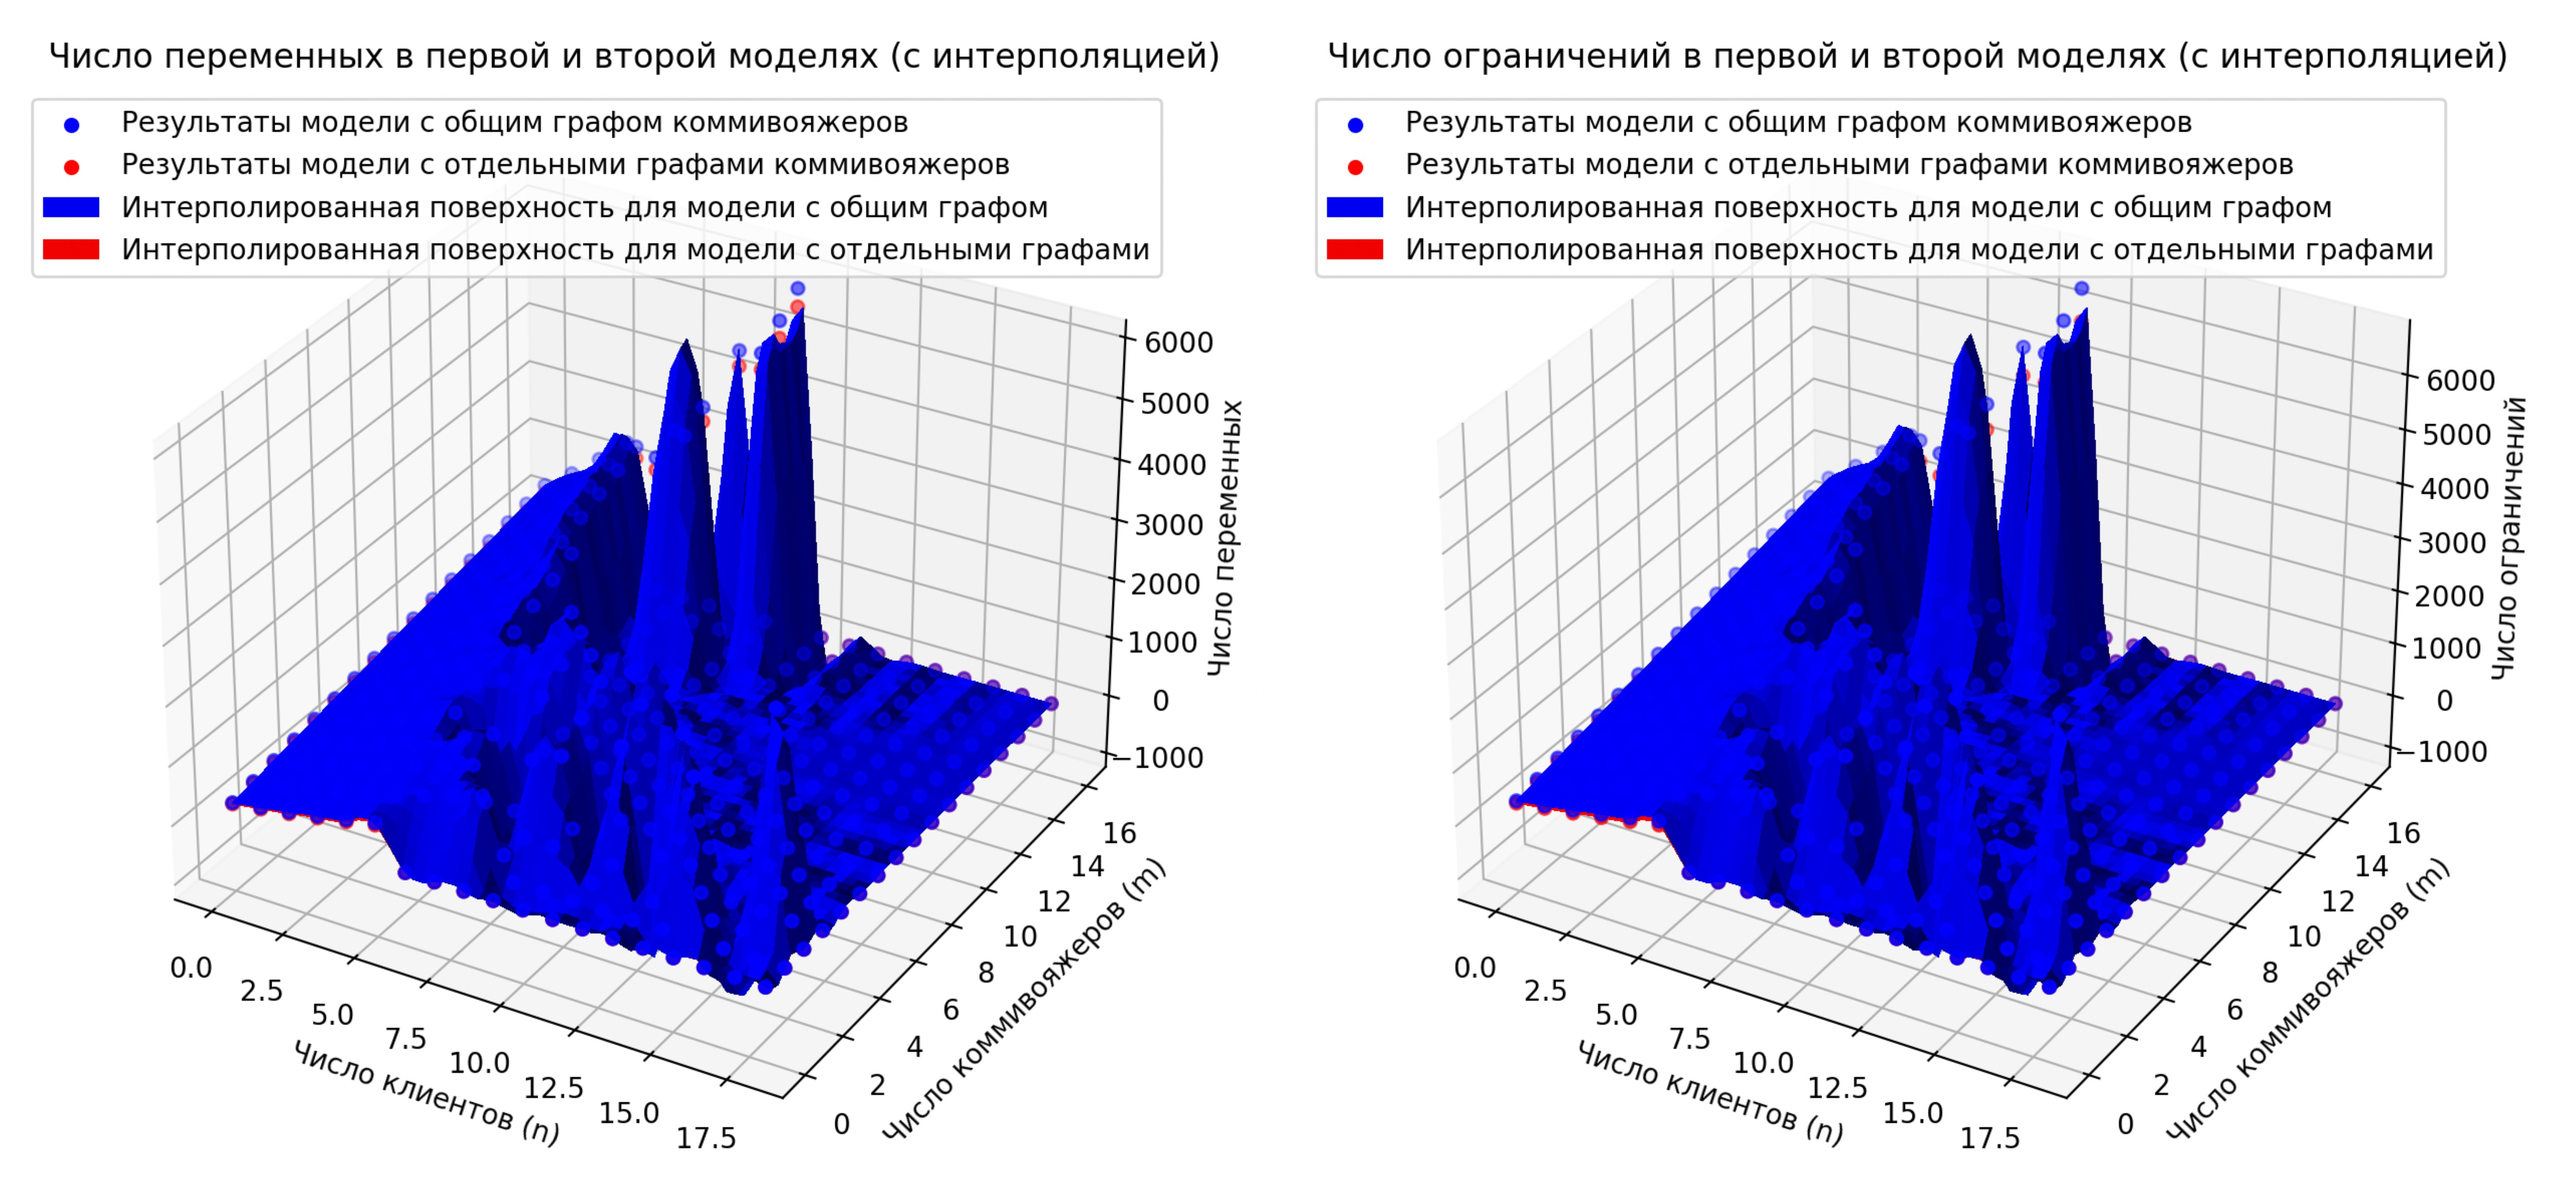
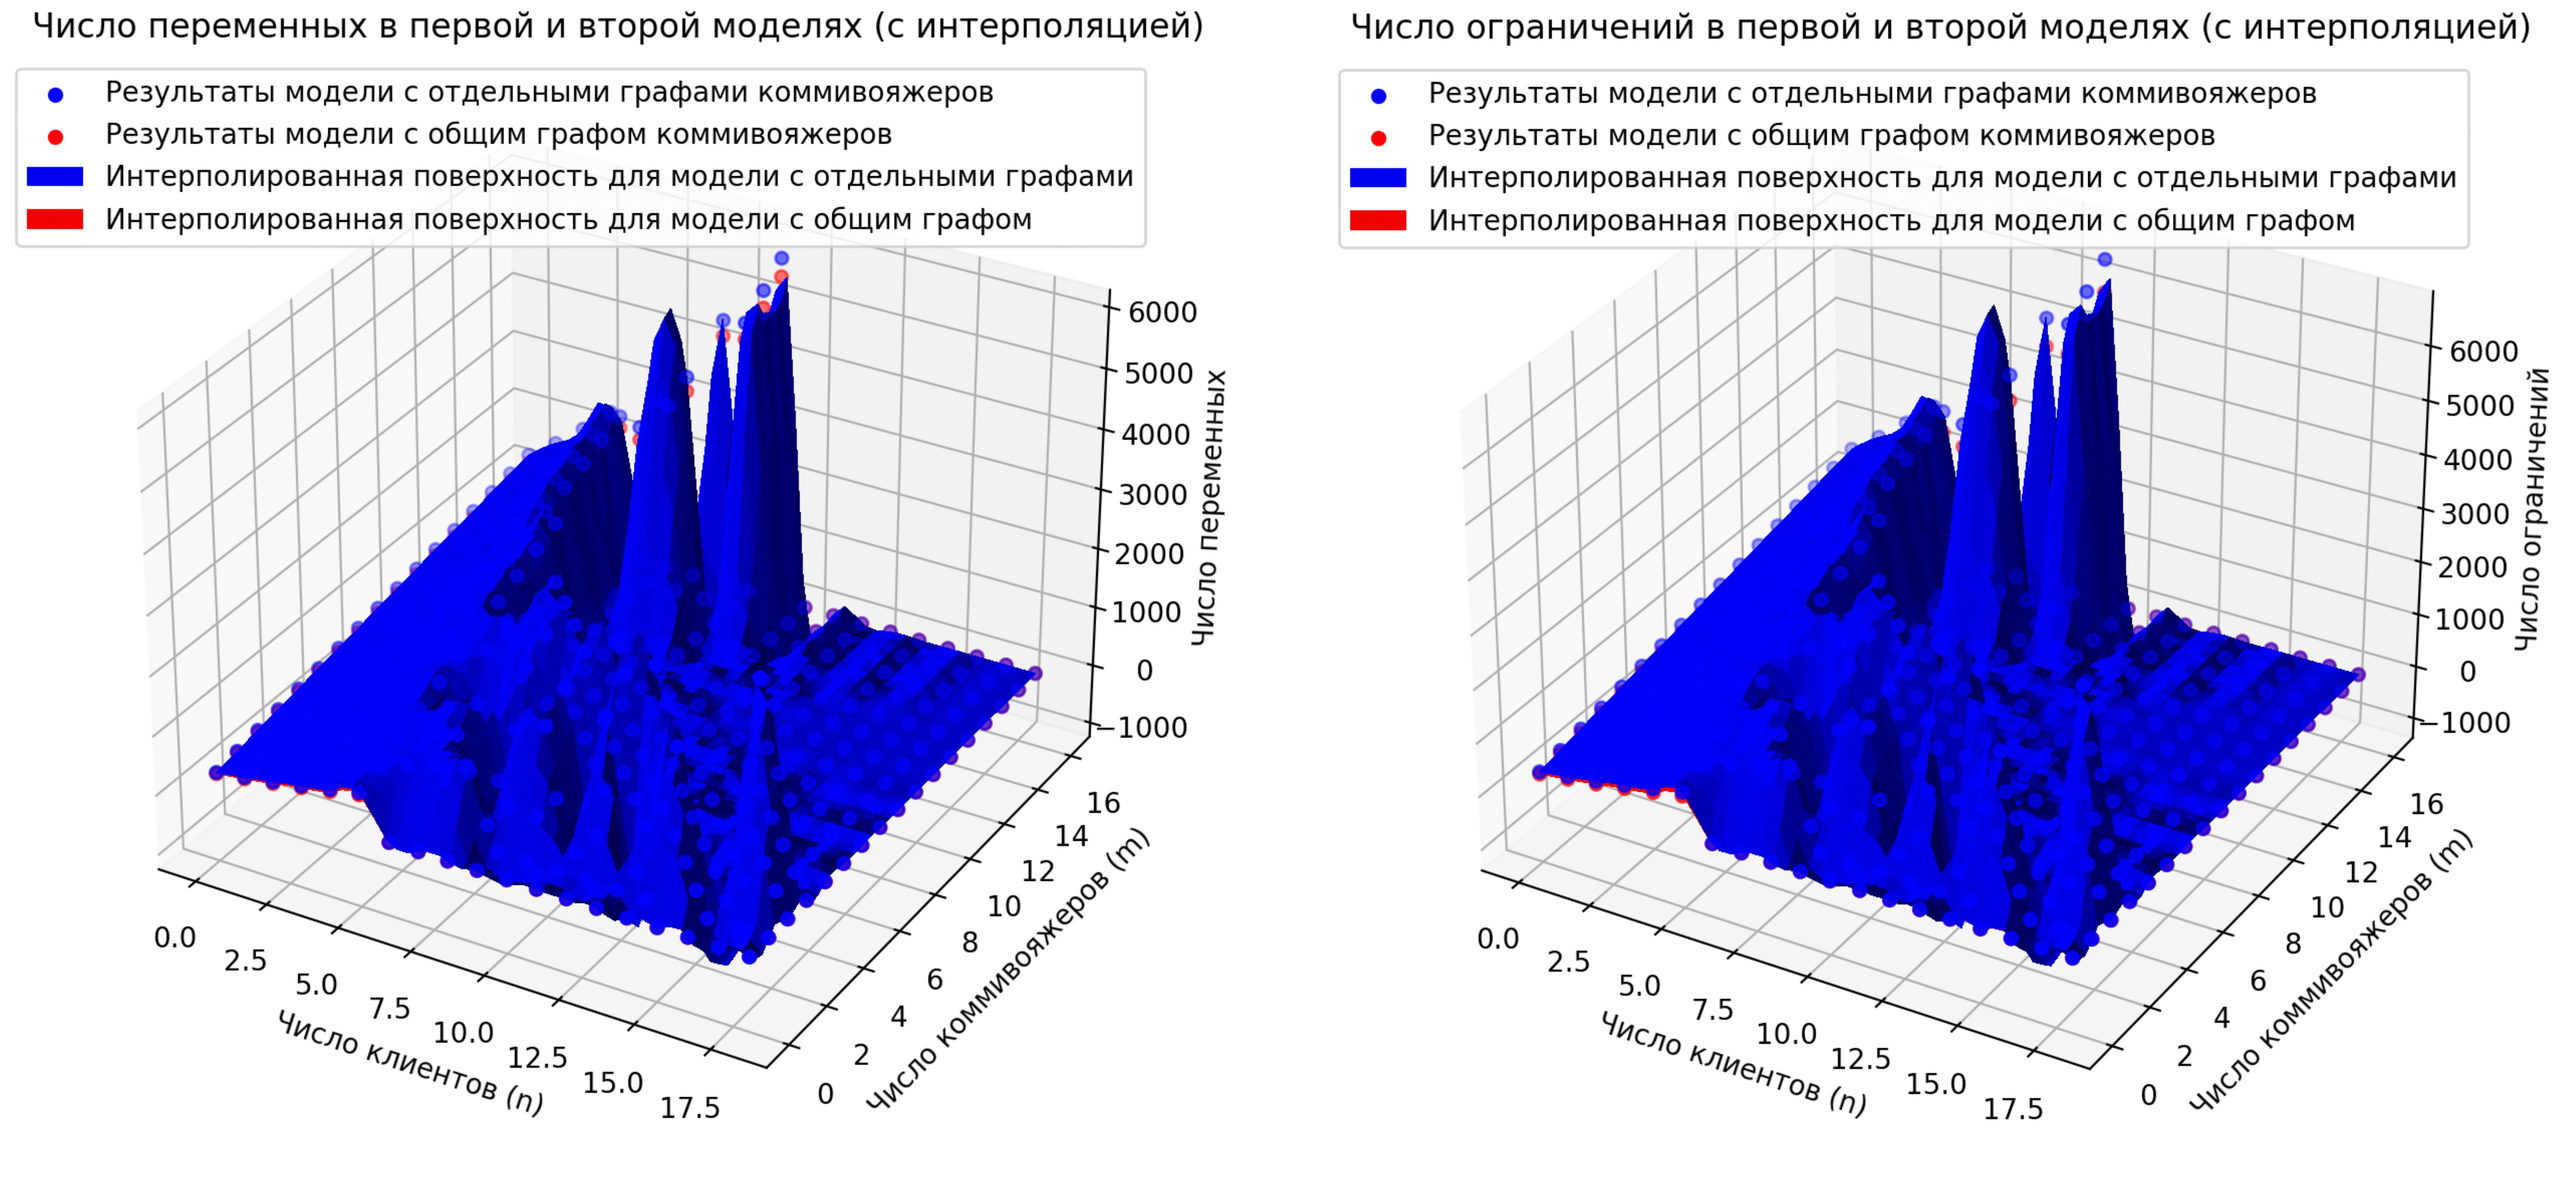
поправила легенды

Changed region(s): [[0.0, 0.0, 0.5, 0.9584], [0.5, 0.0, 1.0, 0.9584]]

diff --git a/test_to_visualize.py b/test_to_visualize.py
@@ -7,8 +7,8 @@ matr_timings = load_csv_matrix("result_data/time_matrix_n_4-6_m_2-7.csv")
 plt_0 = plot_2d(matr_timings, plot_title='Время счета',
                 x_axis='Размерность входных данных (число клиентов (n) + число коммивояжеров (m) )',
                 y_axis='Время (в секундах)',
-                legend_1='Результаты модели с общим графом коммивояжеров',
-                legend_2='Результаты модели с отдельными графами коммивояжеров')
+                legend_2='Результаты модели с общим графом коммивояжеров',
+                legend_1='Результаты модели с отдельными графами коммивояжеров')
 
 # plt_0.show()
 
@@ -17,10 +17,10 @@ plt_1 = plot_3d_interpolation(matr_timings,
                               plot_title='3D-график времени счета первой и второй моделей (с интерполяцией)',
                               x_title='Число клиентов (n)', y_title='Число коммивояжеров (m)',
                               z_title='Время счета (в секундах)',
-                              subtitle_1_1='Результаты модели с общим графом коммивояжеров',
-                              subtitle_2_1='Результаты модели с отдельными графами коммивояжеров',
-                              subtitle_1_2='Интерполированная поверхность для модели с общим графом',
-                              subtitle_2_2='Интерполированная поверхность для модели с отдельными графами')
+                              subtitle_2_1='Результаты модели с общим графом коммивояжеров',
+                              subtitle_1_1='Результаты модели с отдельными графами коммивояжеров',
+                              subtitle_2_2='Интерполированная поверхность для модели с общим графом',
+                              subtitle_1_2='Интерполированная поверхность для модели с отдельными графами')
 # plt_1.show()
 
 constr_matrix = load_csv_matrix("result_data/constr_num_n_7-25_m_4-20.csv")
@@ -30,20 +30,20 @@ plt_2 = plot_3d_interpolation(constr_matrix,
                               plot_title='Число ограничений в первой и второй моделях (с интерполяцией)',
                               x_title='Число клиентов (n)', y_title='Число коммивояжеров (m)',
                               z_title='Число ограничений ',
-                              subtitle_1_1='Результаты модели с общим графом коммивояжеров',
-                              subtitle_2_1='Результаты модели с отдельными графами коммивояжеров',
-                              subtitle_1_2='Интерполированная поверхность для модели с общим графом',
-                              subtitle_2_2='Интерполированная поверхность для модели с отдельными графами')
+                              subtitle_2_1='Результаты модели с общим графом коммивояжеров',
+                              subtitle_1_1='Результаты модели с отдельными графами коммивояжеров',
+                              subtitle_2_2='Интерполированная поверхность для модели с общим графом',
+                              subtitle_1_2='Интерполированная поверхность для модели с отдельными графами')
 # plt_2.show()
 
 plt_3 = plot_3d_interpolation(var_matrix,
                               plot_title='Число переменных в первой и второй моделях (с интерполяцией)',
                               x_title='Число клиентов (n)', y_title='Число коммивояжеров (m)',
                               z_title='Число переменных ',
-                              subtitle_1_1='Результаты модели с общим графом коммивояжеров',
-                              subtitle_2_1='Результаты модели с отдельными графами коммивояжеров',
-                              subtitle_1_2='Интерполированная поверхность для модели с общим графом',
-                              subtitle_2_2='Интерполированная поверхность для модели с отдельными графами')
+                              subtitle_2_1='Результаты модели с общим графом коммивояжеров',
+                              subtitle_1_1='Результаты модели с отдельными графами коммивояжеров',
+                              subtitle_2_2='Интерполированная поверхность для модели с общим графом',
+                              subtitle_1_2='Интерполированная поверхность для модели с отдельными графами')
 # plt_3.show()
 
 total_dim_matrix = []
@@ -57,10 +57,10 @@ plt_4 = plot_3d_interpolation(total_dim_matrix,
                               plot_title='Размерность в первой и второй моделях (с интерполяцией)',
                               x_title='Число клиентов (n)', y_title='Число коммивояжеров (m)',
                               z_title='Число переменных \n+ число ограничений',
-                              subtitle_1_1='Результаты модели с общим графом коммивояжеров',
-                              subtitle_2_1='Результаты модели с отдельными графами коммивояжеров',
-                              subtitle_1_2='Интерполированная поверхность для модели с общим графом',
-                              subtitle_2_2='Интерполированная поверхность для модели с отдельными графами')
+                              subtitle_2_1='Результаты модели с общим графом коммивояжеров',
+                              subtitle_1_1='Результаты модели с отдельными графами коммивояжеров',
+                              subtitle_2_2='Интерполированная поверхность для модели с общим графом',
+                              subtitle_1_2='Интерполированная поверхность для модели с отдельными графами')
 # plt_4.show()
 
 with open('result_data/timelimited_results_n_7-15_m_7-15.json', 'r') as f:
@@ -79,8 +79,8 @@ for idx_n in n:
 plt_5 = plot_2d(matrix_obj, plot_title='Значение ц.ф. при ограничении на вычисление в 20 сек.',
                 x_axis='Размерность входных данных (число клиентов (n) + число коммивояжеров (m) )',
                 y_axis='Целевая функция',
-                legend_1='Результаты модели с общим графом коммивояжеров',
-                legend_2='Результаты модели с отдельными графами коммивояжеров')
+                legend_2='Результаты модели с общим графом коммивояжеров',
+                legend_1='Результаты модели с отдельными графами коммивояжеров')
 
 # plt_5.show()
 
@@ -88,8 +88,8 @@ plt_6 = plot_3d_interpolation(matrix_obj,
                               plot_title='Значение ц.ф. первой и второй моделей за 20 сек. (с интерполяцией)',
                               x_title='Число клиентов (n)', y_title='Число коммивояжеров (m)',
                               z_title='Целевая функция',
-                              subtitle_1_1='Результаты модели с общим графом коммивояжеров',
-                              subtitle_2_1='Результаты модели с отдельными графами коммивояжеров',
-                              subtitle_1_2='Интерполированная поверхность для модели с общим графом',
-                              subtitle_2_2='Интерполированная поверхность для модели с отдельными графами')
+                              subtitle_2_1='Результаты модели с общим графом коммивояжеров',
+                              subtitle_1_1='Результаты модели с отдельными графами коммивояжеров',
+                              subtitle_2_2='Интерполированная поверхность для модели с общим графом',
+                              subtitle_1_2='Интерполированная поверхность для модели с отдельными графами')
 plt_6.show()
